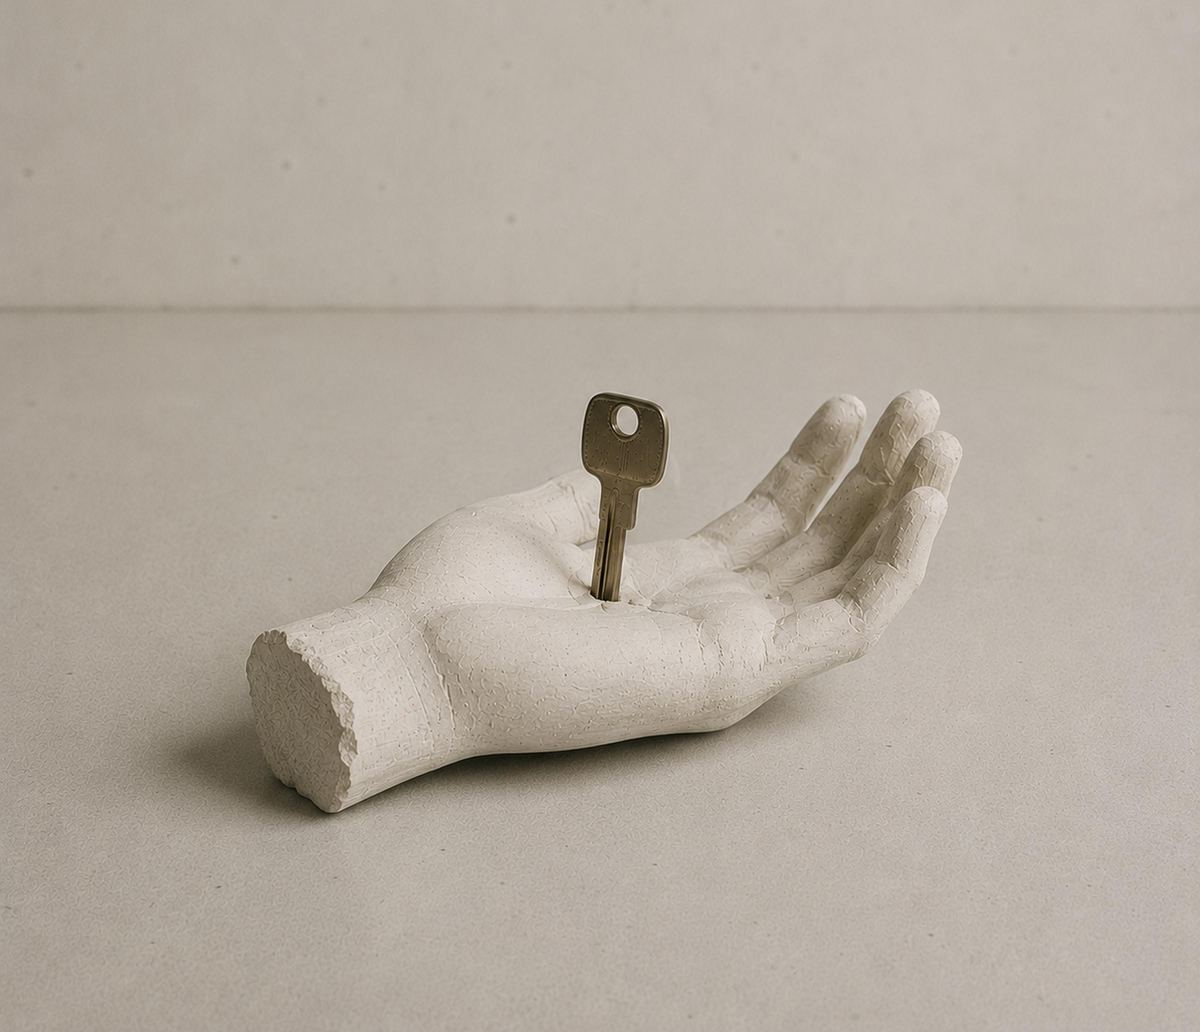
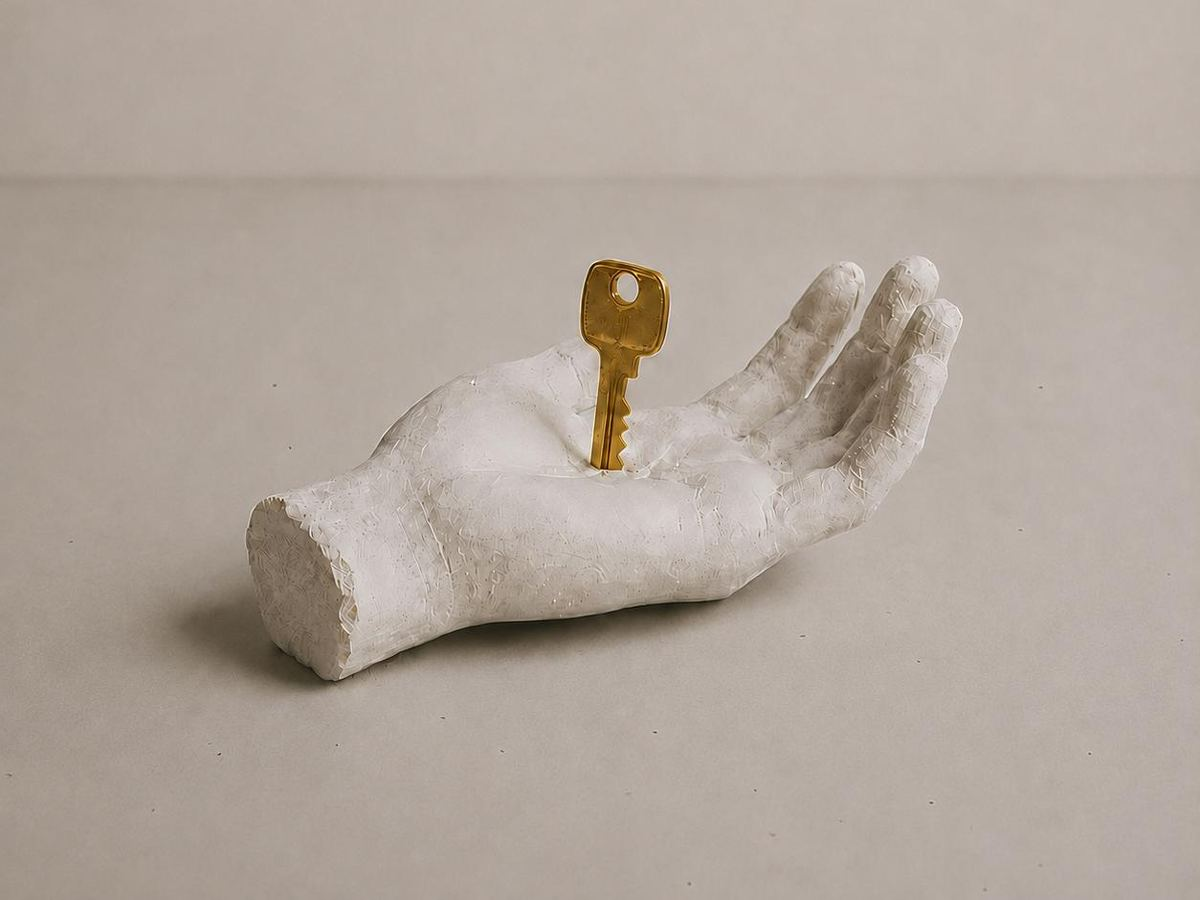
Add files via upload

Changed region(s): [[0.1233, 0.28, 0.8017, 0.8089]]

diff --git a/index.html b/index.html
@@ -34,6 +34,7 @@ body{
 @keyframes appear{ from{ opacity:0; transform:translateY(10px);} to{ opacity:1; transform:none;} }
 @media (prefers-reduced-motion: reduce){ .scene.on{ animation:none; } .progress{ transition:none; } }
 .art{ width:100%; display:block; border:1px solid var(--line); }
+.hotelmark{ font-size:12px; letter-spacing:.22em; text-transform:lowercase; color:var(--grey); margin-bottom:16px; }
 .art-frame{ margin:8px 0 30px; }
 h1,h2{ font-weight:200; text-transform:lowercase; letter-spacing:.04em; line-height:1.15; }
 h1{ font-size:clamp(34px, 7vw, 52px); }
@@ -95,6 +96,7 @@ footer p{ font-size:12.5px; color:var(--grey); margin-bottom:4px; }
 
   <!-- ESCENA 1 -->
   <section class="scene on" id="s1" aria-labelledby="s1h">
+    <div class="hotelmark">umusic hotel madrid</div>
     <div class="art-frame"><img class="art" src="assets/portada-recorte.jpg" alt="Una mano de escayola sostiene una llave dorada"></div>
     <h1 id="s1h">has leído bien.</h1>
     <div class="big-num">10 habitaciones. <span class="brass">3,04 €</span>.</div>
@@ -182,6 +184,7 @@ footer p{ font-size:12.5px; color:var(--grey); margin-bottom:4px; }
 
 <footer>
   <p>© 2026 El Vuelo del Tenedor, S.L. — Comandante Twin</p>
+<p>Una acción en colaboración con UMusic Hotel Madrid.</p>
   <p><a href="bases.html">bases de la acción</a> · <a href="privacidad.html">privacidad, aviso legal y cookies</a></p>
   <p>Esta web no utiliza cookies.</p>
 </footer>

diff --git a/bases.html b/bases.html
@@ -85,6 +85,7 @@ footer p{ font-size:12.5px; color:var(--grey); margin-bottom:4px; }
 </div>
 <footer>
 <p>© 2026 El Vuelo del Tenedor, S.L. — Comandante Twin</p>
+<p>Una acción en colaboración con UMusic Hotel Madrid.</p>
 <p><a href="index.html">habitación 304</a> · <a href="bases.html">bases de la acción</a> · <a href="privacidad.html">privacidad, aviso legal y cookies</a></p>
 <p>Esta web no utiliza cookies.</p>
 </footer></body></html>

diff --git a/privacidad.html b/privacidad.html
@@ -70,6 +70,7 @@ footer p{ font-size:12.5px; color:var(--grey); margin-bottom:4px; }
 </div>
 <footer>
 <p>© 2026 El Vuelo del Tenedor, S.L. — Comandante Twin</p>
+<p>Una acción en colaboración con UMusic Hotel Madrid.</p>
 <p><a href="index.html">habitación 304</a> · <a href="bases.html">bases de la acción</a> · <a href="privacidad.html">privacidad, aviso legal y cookies</a></p>
 <p>Esta web no utiliza cookies.</p>
 </footer></body></html>

diff --git a/llave.html b/llave.html
@@ -127,6 +127,7 @@ function confirmar(e){
 </div>
 <footer>
 <p>© 2026 El Vuelo del Tenedor, S.L. — Comandante Twin</p>
+<p>Una acción en colaboración con UMusic Hotel Madrid.</p>
 <p><a href="index.html">habitación 304</a> · <a href="bases.html">bases de la acción</a> · <a href="privacidad.html">privacidad, aviso legal y cookies</a></p>
 <p>Esta web no utiliza cookies.</p>
 </footer></body></html>
